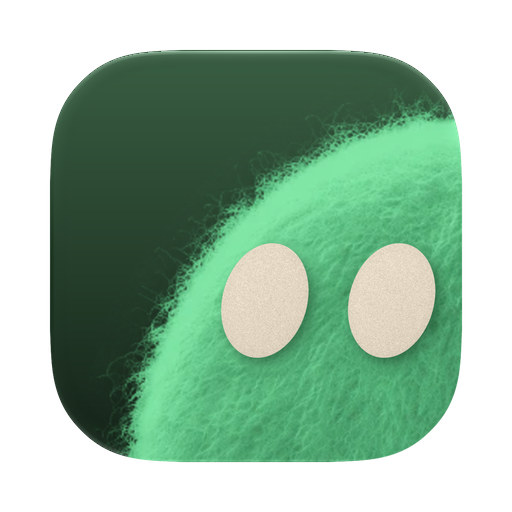
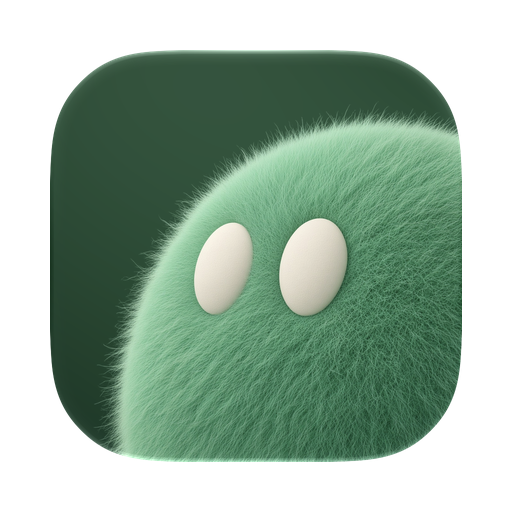
Draw the plush with eyes that sit in its fur
The flat cream ovals sat on the fur like stickers: no light, no shadow, cut cleanly out of the hair,
so the face read as pasted on. The new art renders the plush and its eyes together, with the eyes
softly pressed into the fur, lit like it, and one sitting a little higher than the other, so it
looks like a character rather than a badge.

The render lies on a background lit from above that a two-colour fill cannot draw. The macOS icon
therefore carries that background as its own layer under the plush, and the plush keeps its own
layer so macOS still draws the glass rim round it; the fill under both stays as a fallback in the
same colours. Every icon made from the art is drawn again from it: the desktop and web icons, the
favicons, the phone icons, the Android foreground, background and one-colour outline, and the
mascot on the first screens. The mascot now brings its own background, so its tile colour only
shows while the picture loads; the live plush beside it takes the softer green of the new fur.

diff --git a/app/src/components/AppMascot.tsx b/app/src/components/AppMascot.tsx
@@ -3,10 +3,11 @@ import { cn } from '@/lib/utils';
 
 /**
  * The app's own colours, those of its icon. Fixed rather than the brand colour: that one is the accent of
- * the interface and turns into the selected bot's colour, while the app keeps one face.
+ * the interface and turns into the selected bot's colour, while the app keeps one face. The picture brings
+ * its own background; the tile behind it only shows until the picture has loaded.
  */
-const TILE = 'linear-gradient(180deg, #2a5a3c 0%, #12281a 100%)';
-export const MASCOT_COLOR = '#4fae74';
+const TILE = 'linear-gradient(180deg, #29533a 0%, #153727 100%)';
+export const MASCOT_COLOR = '#468864';
 
 /**
  * Yumak Bot itself, drawn as its icon: the green plush coming in from the bottom right corner of a dark
